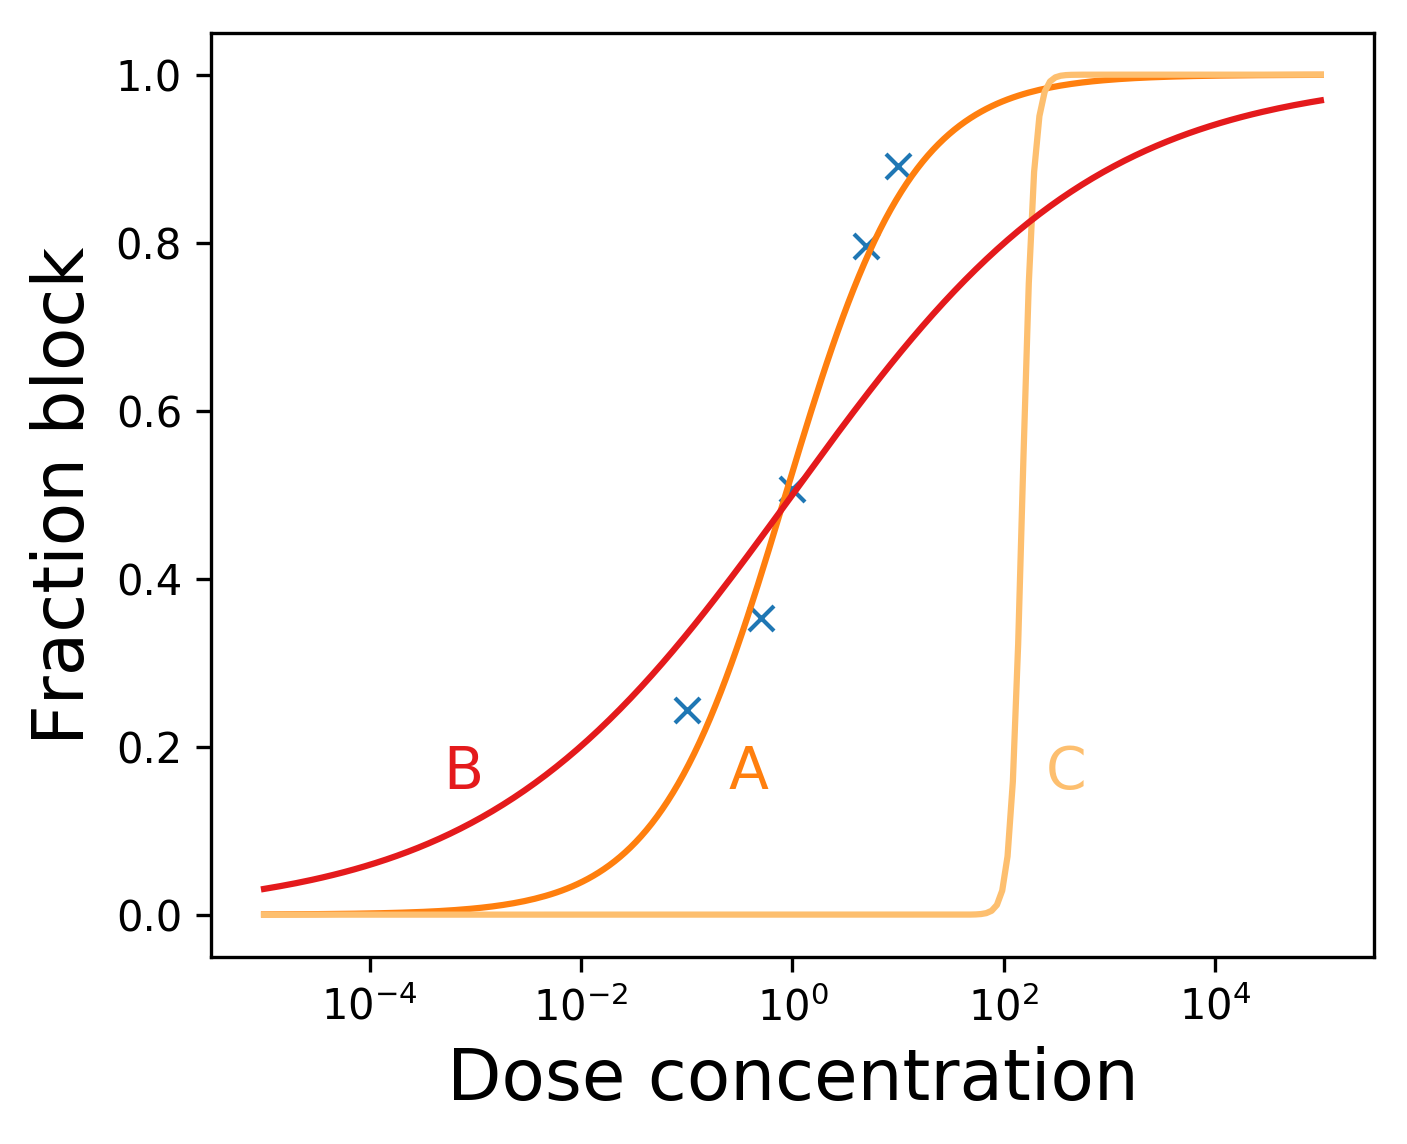
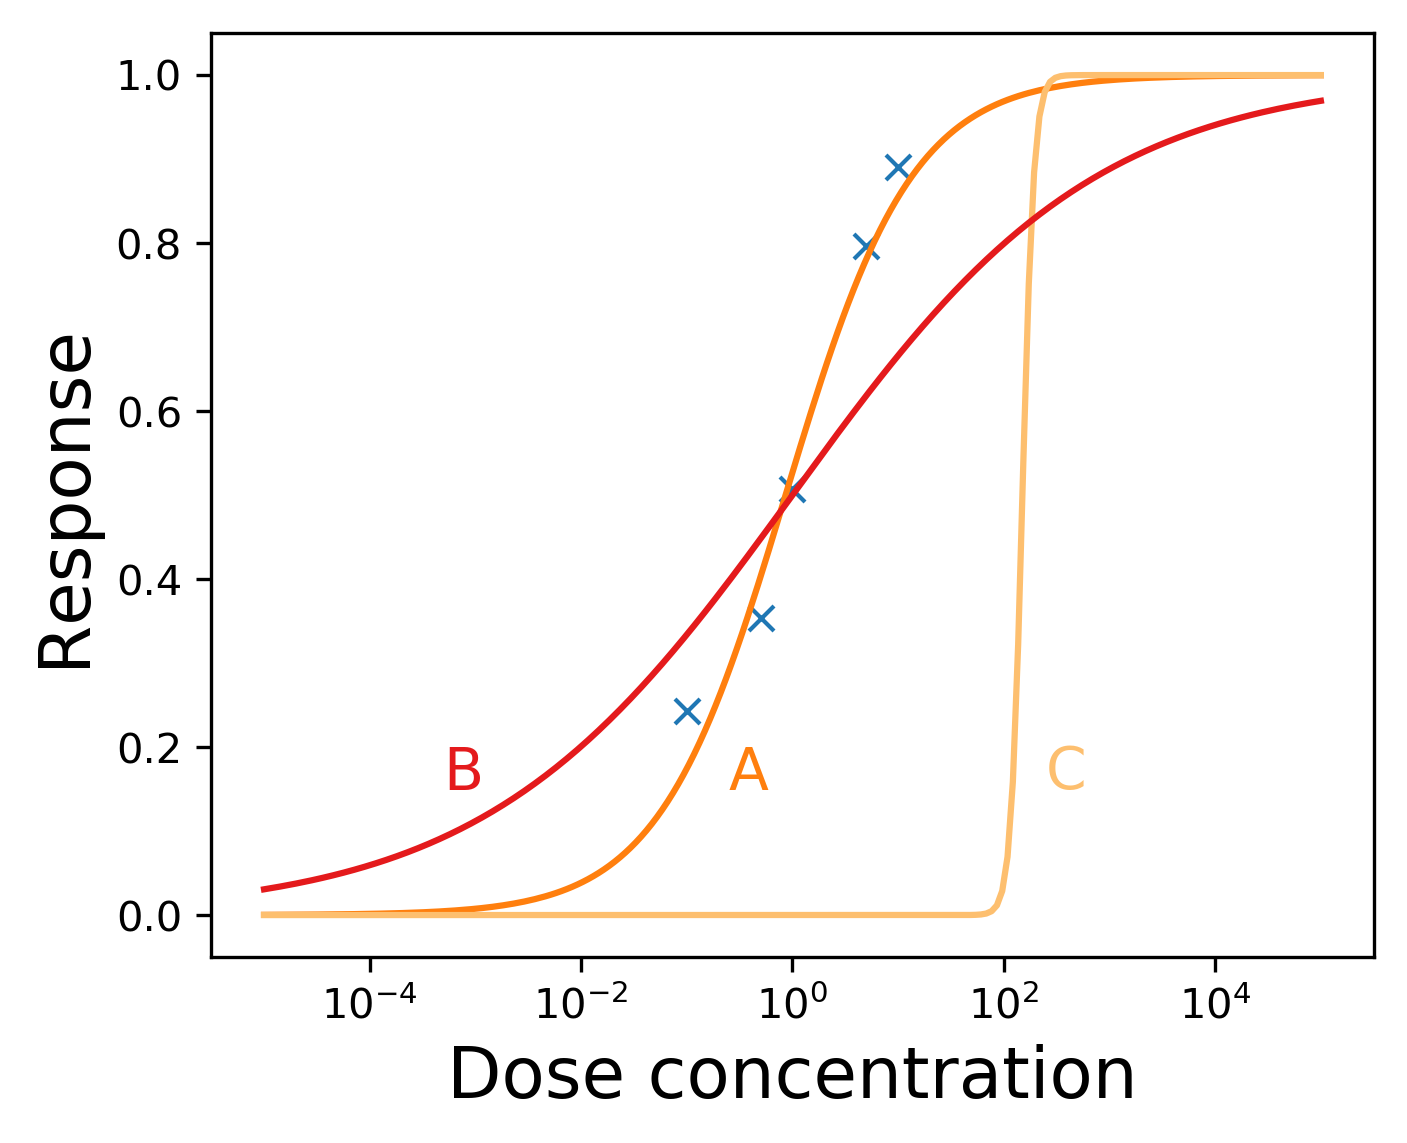
Update label

diff --git a/fig8-parameter-transformation-example/hill-fit.py b/fig8-parameter-transformation-example/hill-fit.py
@@ -71,7 +71,7 @@ plt.plot(xfunc, hill(xfunc, *p0_all[-1]), c='#fdbf6f')
 plt.text(2.5e2, 0.15, 'C', fontsize=14, color='#fdbf6f')
 plt.plot(xfunc, hill(xfunc, *p0_all[-2]), c='#e41a1c')
 plt.text(5e-4, 0.15, 'B', fontsize=14, color='#e41a1c')
-plt.ylabel('Fraction block', fontsize=17)
+plt.ylabel('Response', fontsize=17)
 plt.xlabel('Dose concentration', fontsize=17)
 plt.xscale('log')
 plt.savefig('hill-fig/dose-response-example', dpi=300, bbox_inches='tight')
